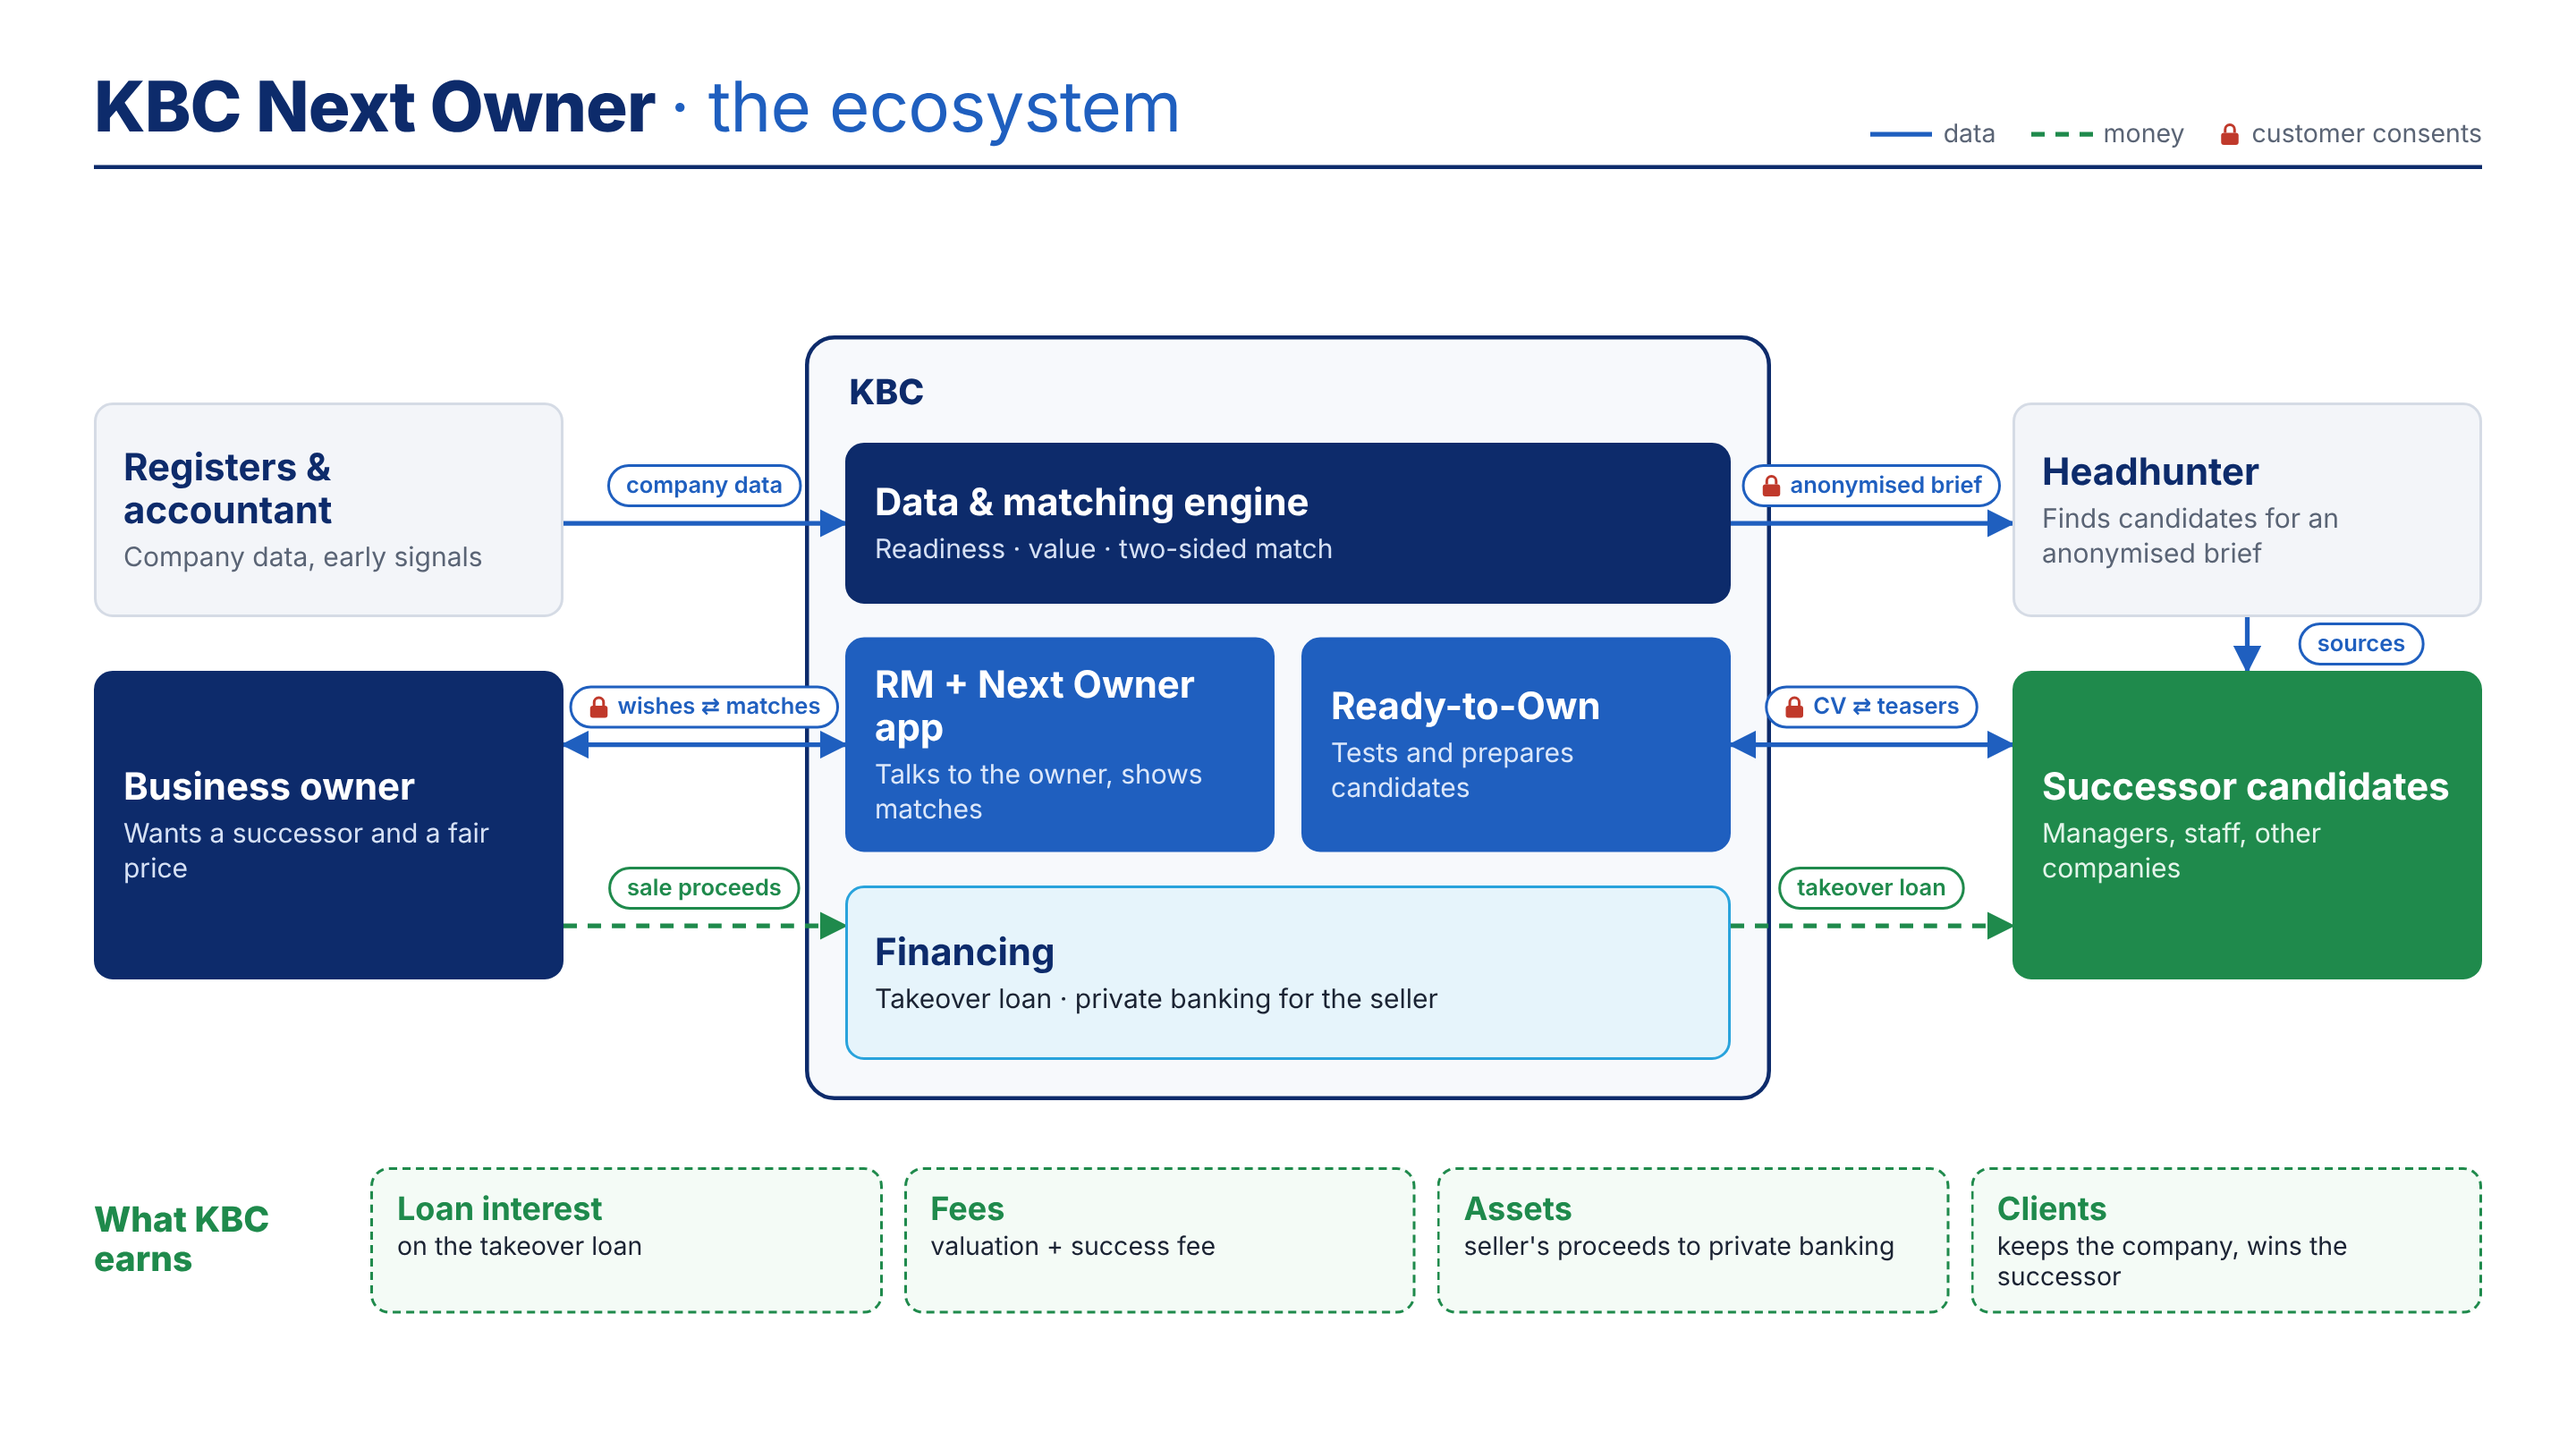
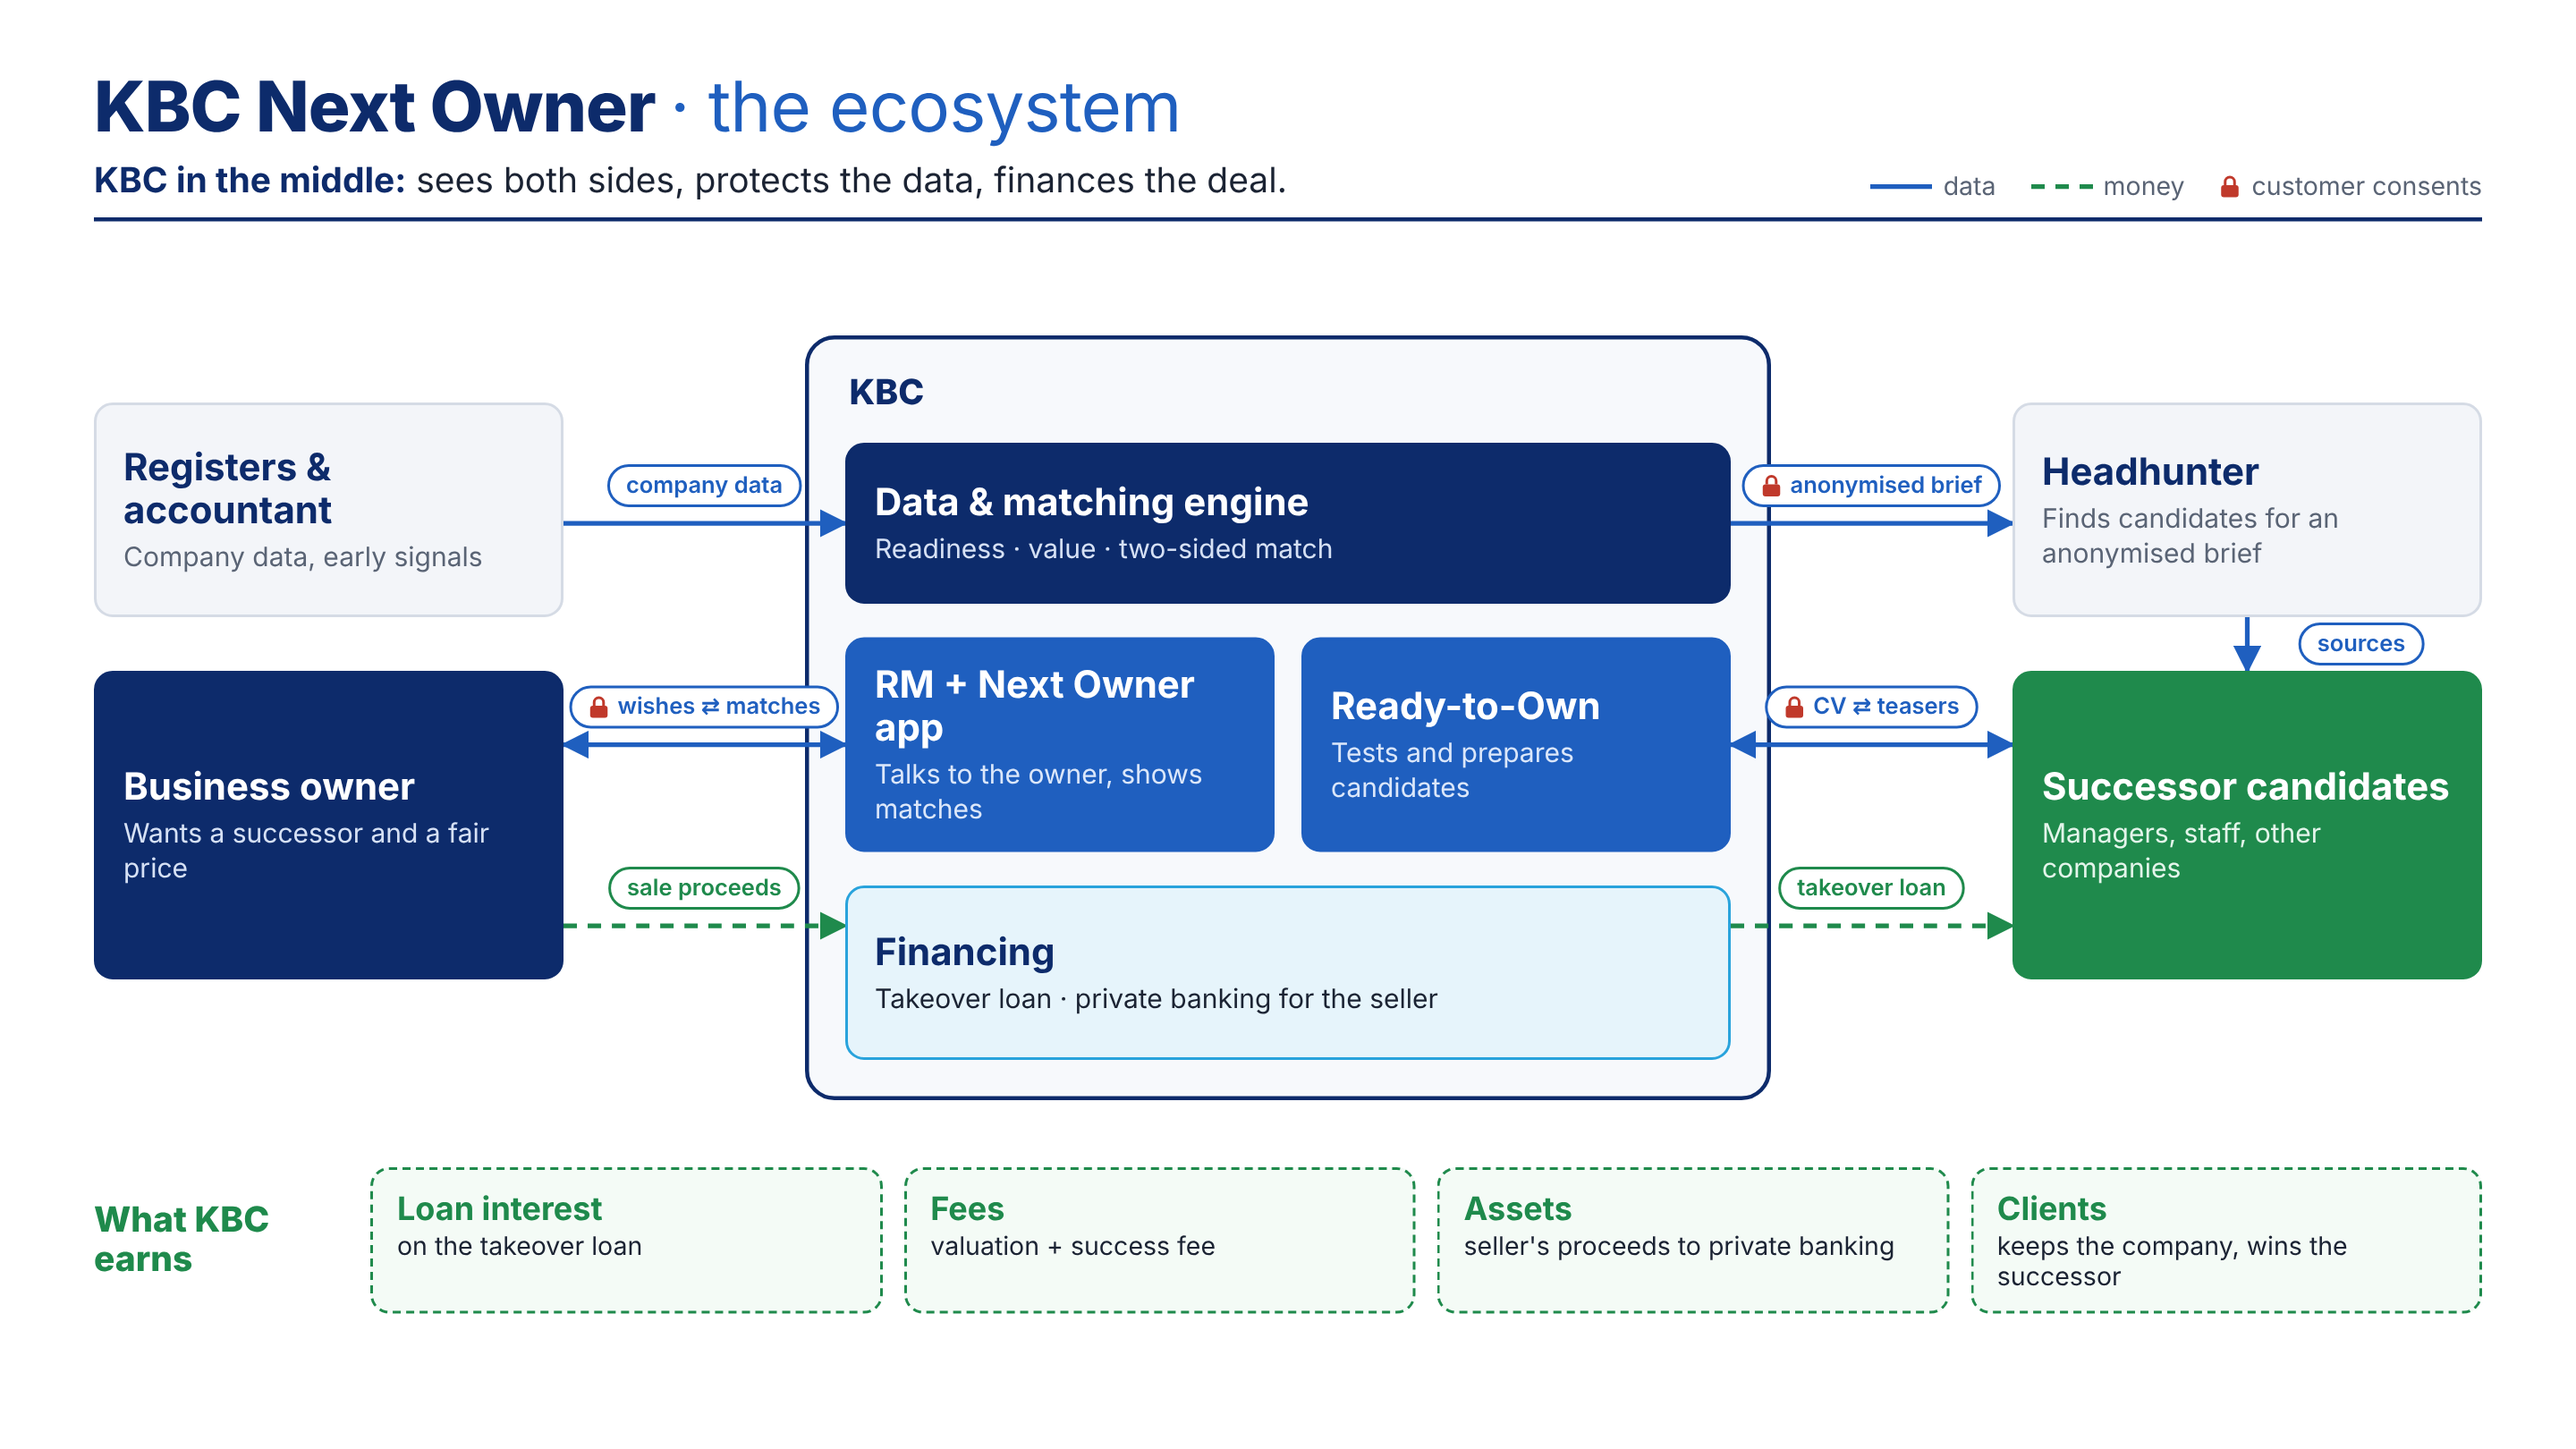
Ecosystem slide: add 'KBC in the middle' tagline under the title
Claude-Session: https://claude.ai/code/session_0158e7mc2xYsiPaCriu17N7J

Changed region(s): [[0.0312, 0.0926, 0.5, 0.1543], [0.7188, 0.0926, 0.9688, 0.1543]]

diff --git a/slides/ecosystem.html b/slides/ecosystem.html
@@ -4,6 +4,8 @@ body{width:1920px;height:1080px;background:#fff;color:#1b2333;font-family:Inter,
 header{position:absolute;left:70px;right:70px;top:48px;border-bottom:3px solid #0d2b6b;padding-bottom:12px;display:flex;justify-content:space-between;align-items:flex-end}
 h1{font-size:52px;font-weight:800;color:#0d2b6b;letter-spacing:-.6px}
 h1 span{font-weight:400;color:#1f5fbf}
+.tag{font-size:26px;color:#1b2333;margin-top:8px}
+.tag b{color:#0d2b6b}
 .keys{display:flex;gap:26px;font-size:19px;color:#5a6475;align-items:center}
 .k{display:flex;gap:8px;align-items:center}
 .kbc{position:absolute;left:600px;top:250px;width:720px;height:570px;border:3px solid #0d2b6b;border-radius:22px;background:#f7f9fc}
@@ -20,7 +22,7 @@ h1 span{font-weight:400;color:#1f5fbf}
 .chip{flex:1;border:2px dashed #1f8a4c;border-radius:14px;padding:14px 18px;font-size:19px;color:#1b2333;display:flex;flex-direction:column;gap:2px;background:#f4fbf6}
 .chip b{font-size:24px;color:#1f8a4c}
 </style></head><body>
-<header><h1>KBC Next Owner <span>· the ecosystem</span></h1>
+<header><div><h1>KBC Next Owner <span>· the ecosystem</span></h1><div class="tag"><b>KBC in the middle:</b> sees both sides, protects the data, finances the deal.</div></div>
 <div class="keys"><div class="k"><svg width="46" height="10"><line x1="0" y1="5" x2="46" y2="5" stroke="#1f5fbf" stroke-width="3.5"/></svg>data</div>
 <div class="k"><svg width="46" height="10"><line x1="0" y1="5" x2="46" y2="5" stroke="#1f8a4c" stroke-width="3.5" stroke-dasharray="10 8"/></svg>money</div>
 <div class="k"><svg width="16" height="18"><rect x="1.5" y="8" width="13" height="9" rx="2" fill="#c0392b"/><path d="M4.5 8V5.5a3.5 3.5 0 0 1 7 0V8" stroke="#c0392b" stroke-width="2" fill="none"/></svg>customer consents</div></div></header>
